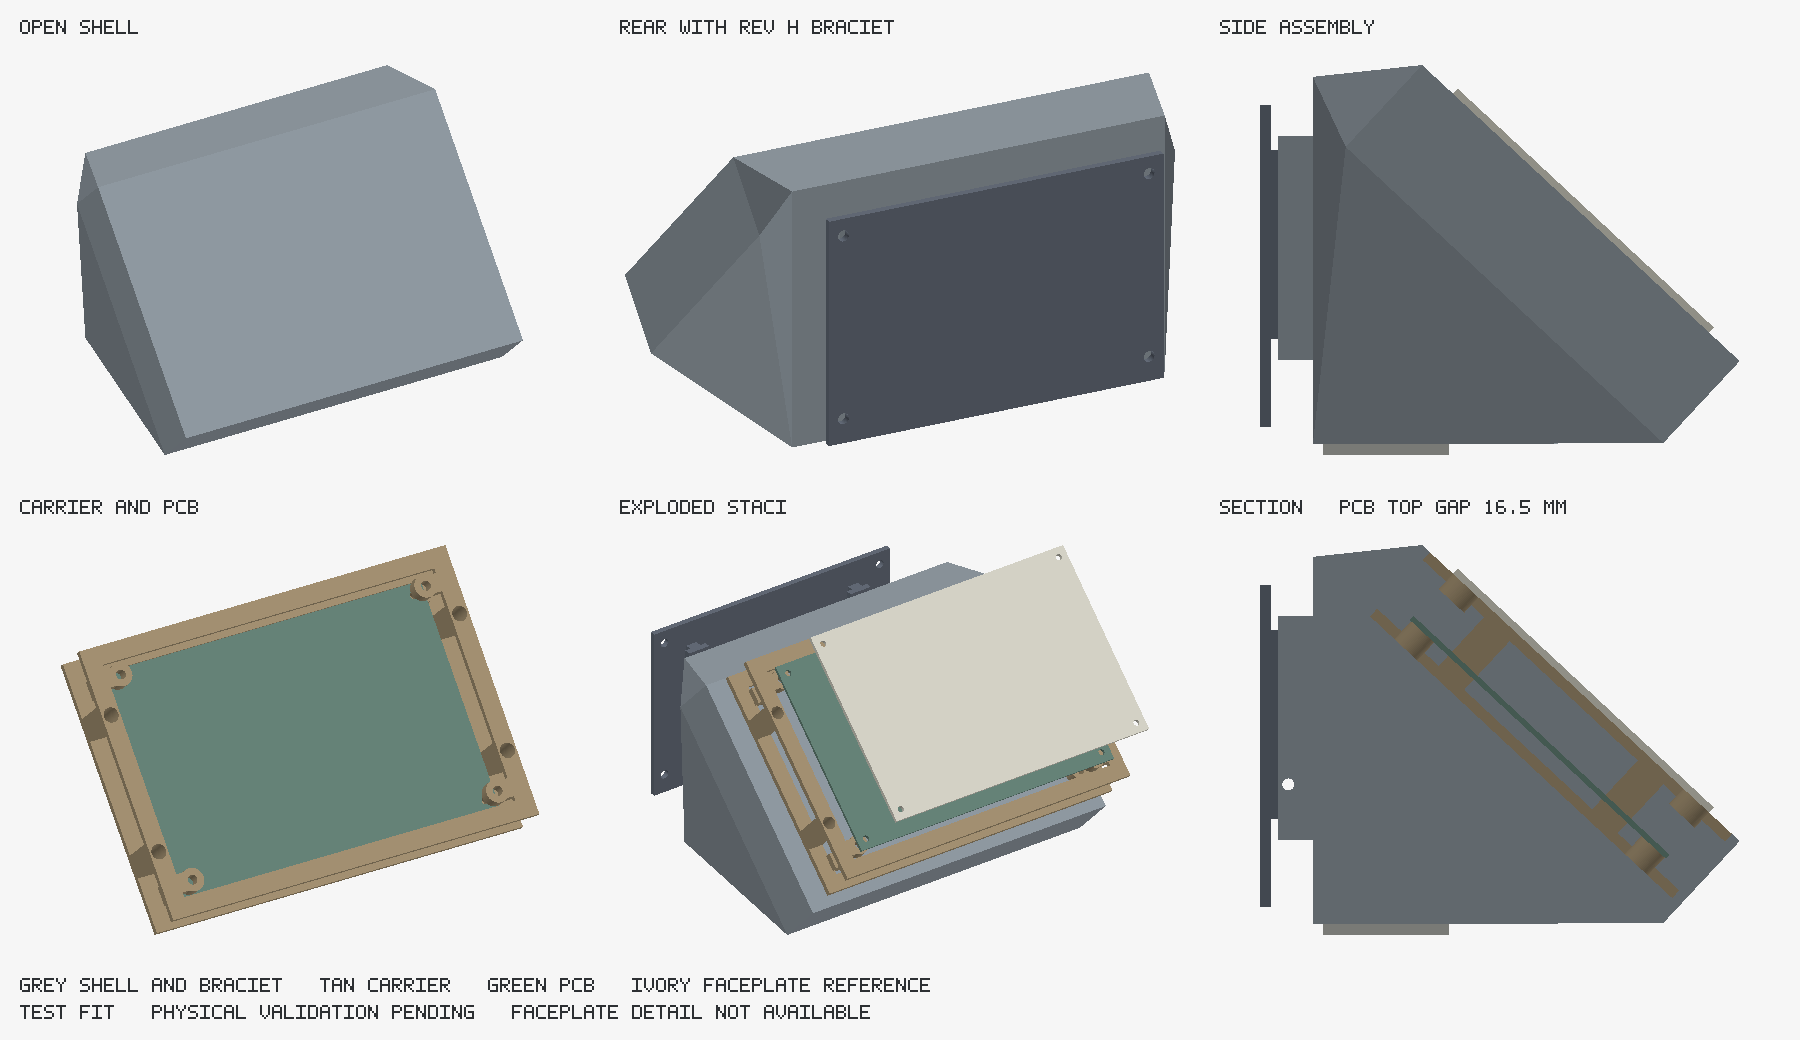
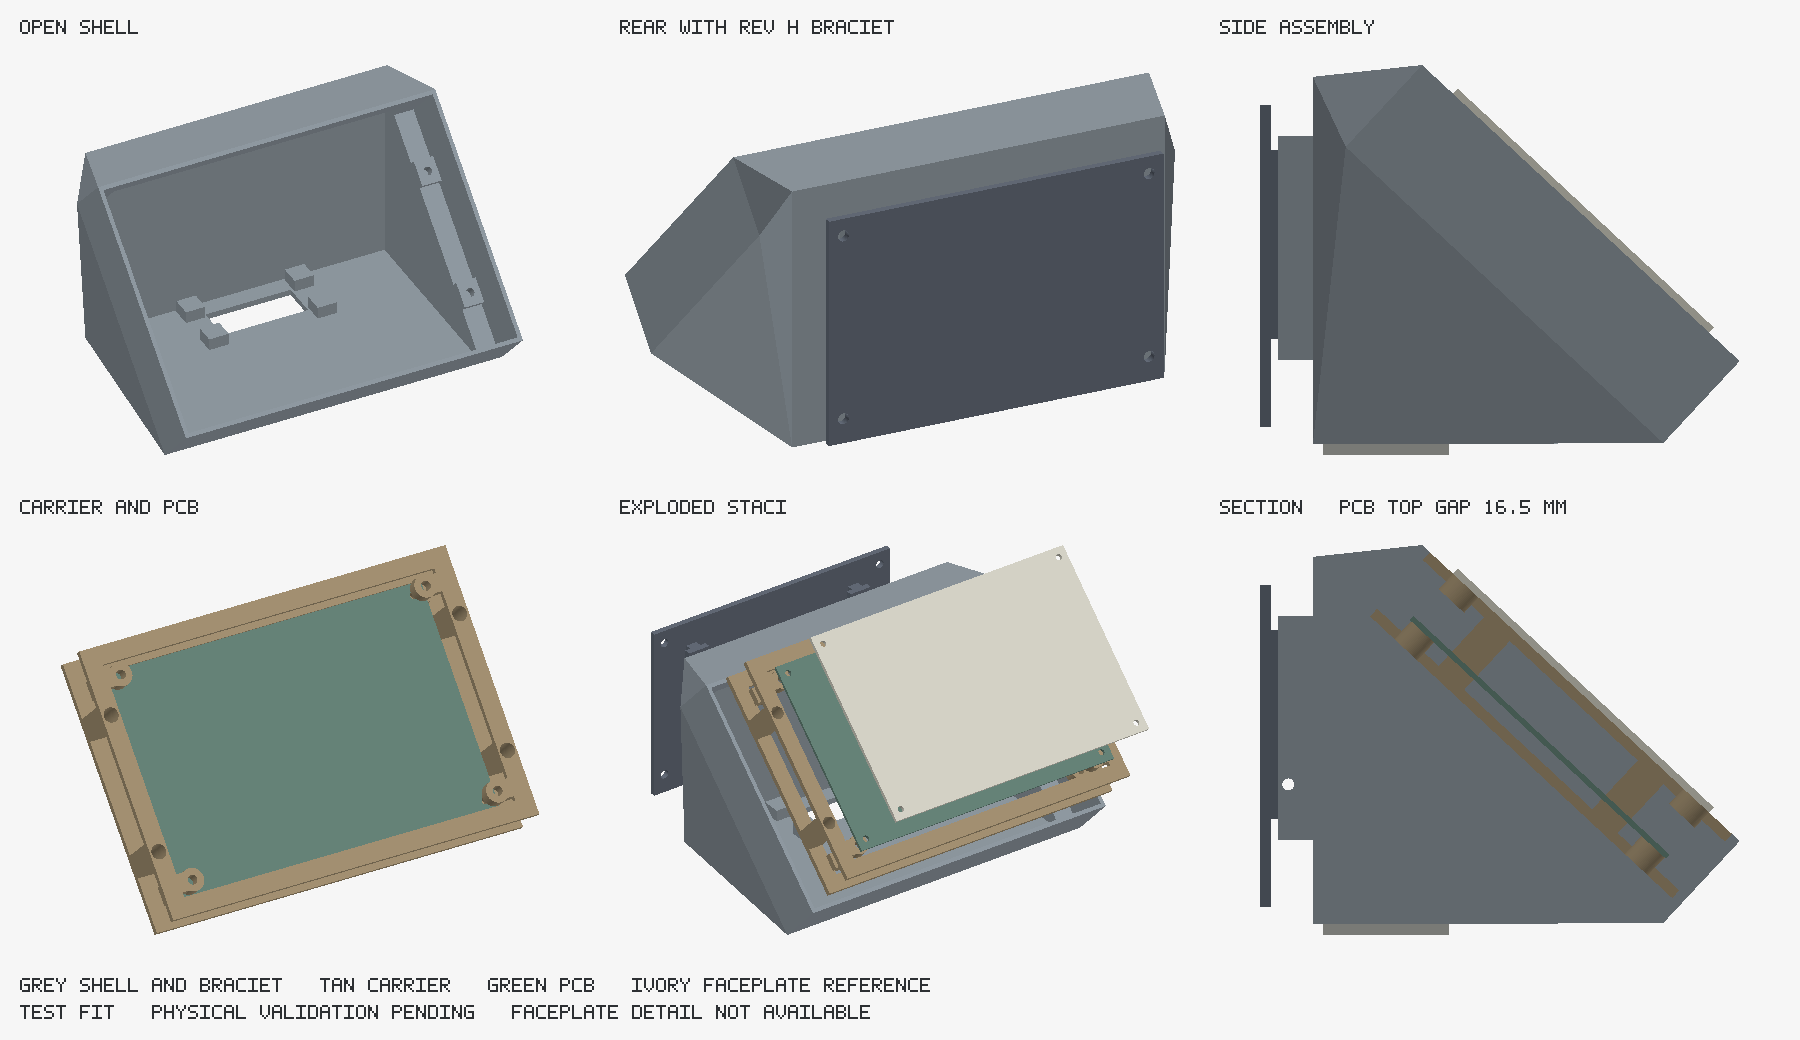
Fix Rev I front aperture membrane and verify exported opening

diff --git a/mechanical/enclosure/verify_rev_i.py b/mechanical/enclosure/verify_rev_i.py
@@ -66,6 +66,23 @@ def run():
         for orientation in ('INSTALLED','PRINT'):
             mesh=trimesh.load_mesh(g.ROOT/f'CrossWind_IPC101_{name}_RevI_{orientation}.stl')
             assert mesh.is_watertight and mesh.is_winding_consistent and len(mesh.split())==1
+            if name=='Box':
+                # Test actual exported triangles, not just Boolean volume: opposite
+                # coincident faces can enclose no volume yet cap the aperture.
+                vertices=mesh.vertices.copy()
+                if orientation=='PRINT':
+                    vertices+=np.asarray(part.bounding_box()[:3])
+                vertices-=np.array([3,h.BOTTOM_Y+g.FACE_FORWARD,h.BOTTOM_Z])
+                angle=np.radians(90+h.ANGLE)
+                rotation=np.array([[1,0,0],[0,np.cos(angle),-np.sin(angle)],
+                                   [0,np.sin(angle),np.cos(angle)]])
+                local=vertices@rotation
+                tris=local[mesh.faces]
+                centre=tris.mean(axis=1)
+                caps=(np.max(np.abs(tris[:,:,2]),axis=1)<.001)
+                caps&=(centre[:,0]>-9.9)&(centre[:,0]<159.9)
+                caps&=(centre[:,1]>-9.9)&(centre[:,1]<109.9)
+                assert not np.any(caps), 'Exported front opening has coplanar membrane triangles'
             expected=part if orientation=='INSTALLED' else g.print_part(name,part)
             assert np.allclose(mesh.bounds.flatten(),expected.bounding_box(),atol=1e-4)
             assert abs(mesh.volume-expected.volume())<.1

diff --git a/mechanical/enclosure/generate_rev_i.py b/mechanical/enclosure/generate_rev_i.py
@@ -40,7 +40,9 @@ def build_box():
     front=face(cube((174,124,32),(-12,-12,0)))
     back=cube((156,3,105),(0,0,0))
     outer=m.Manifold.batch_hull([front,back])
-    cavity=face(cube((170,120,29),(-10,-10,0)))
+    # Cross the front datum: a coplanar cut can leave zero-volume sheets
+    # that pass Boolean volume checks but obstruct the exported opening.
+    cavity=face(cube((170,120,30),(-10,-10,-1)))
     cavity+=h.prism([(3,3),(h.BOTTOM_Y-3,3),(h.BOTTOM_Y-3,26),(31,96),(3,100)],(3,153))
     box=outer-cavity
     # Plane-cut the front opening and keep all new shell behind its datum.

diff --git a/mechanical/enclosure/README.md b/mechanical/enclosure/README.md
@@ -180,3 +180,10 @@ Input SHA-256:
 
[2 lines of base64/hex data omitted]
+
+
+### Rev I front-opening export correction - 2026-09-21
+
+The initial Rev I shell exports contained four large coincident, opposite-facing triangles across the nominal front aperture. These zero-volume sheets made the shell appear closed despite passing the previous volume-intersection and welded-edge checks. The cavity cutter now extends 1 mm outside the face datum rather than ending coplanar with it. This removes the spurious faces without changing the intended shell volume, carrier seats, dimensions or frozen Rev H mounting interface. Regenerated Rev I shell STLs supersede the initial defective exports; the originals remain in Git history. The verifier now checks actual exported triangles at the front aperture in both orientations.
+
+Intended attachment sequence for the initial Rev I cassette: insert the PCB into the separate carrier and fasten it to its four rear pads; insert the carrier through the open shell front and secure it to the four recessed outboard shell seats; attach the faceplate to the four front corner pads on the carrier. Faceplate screws do not attach directly to the shell. The separate carrier is required for this arrangement. Actual fastener/driver access and the recovered R3 integration remain pending; this correction alone does not make R3 compatible. Do not print the initial cassette pending that integration.
